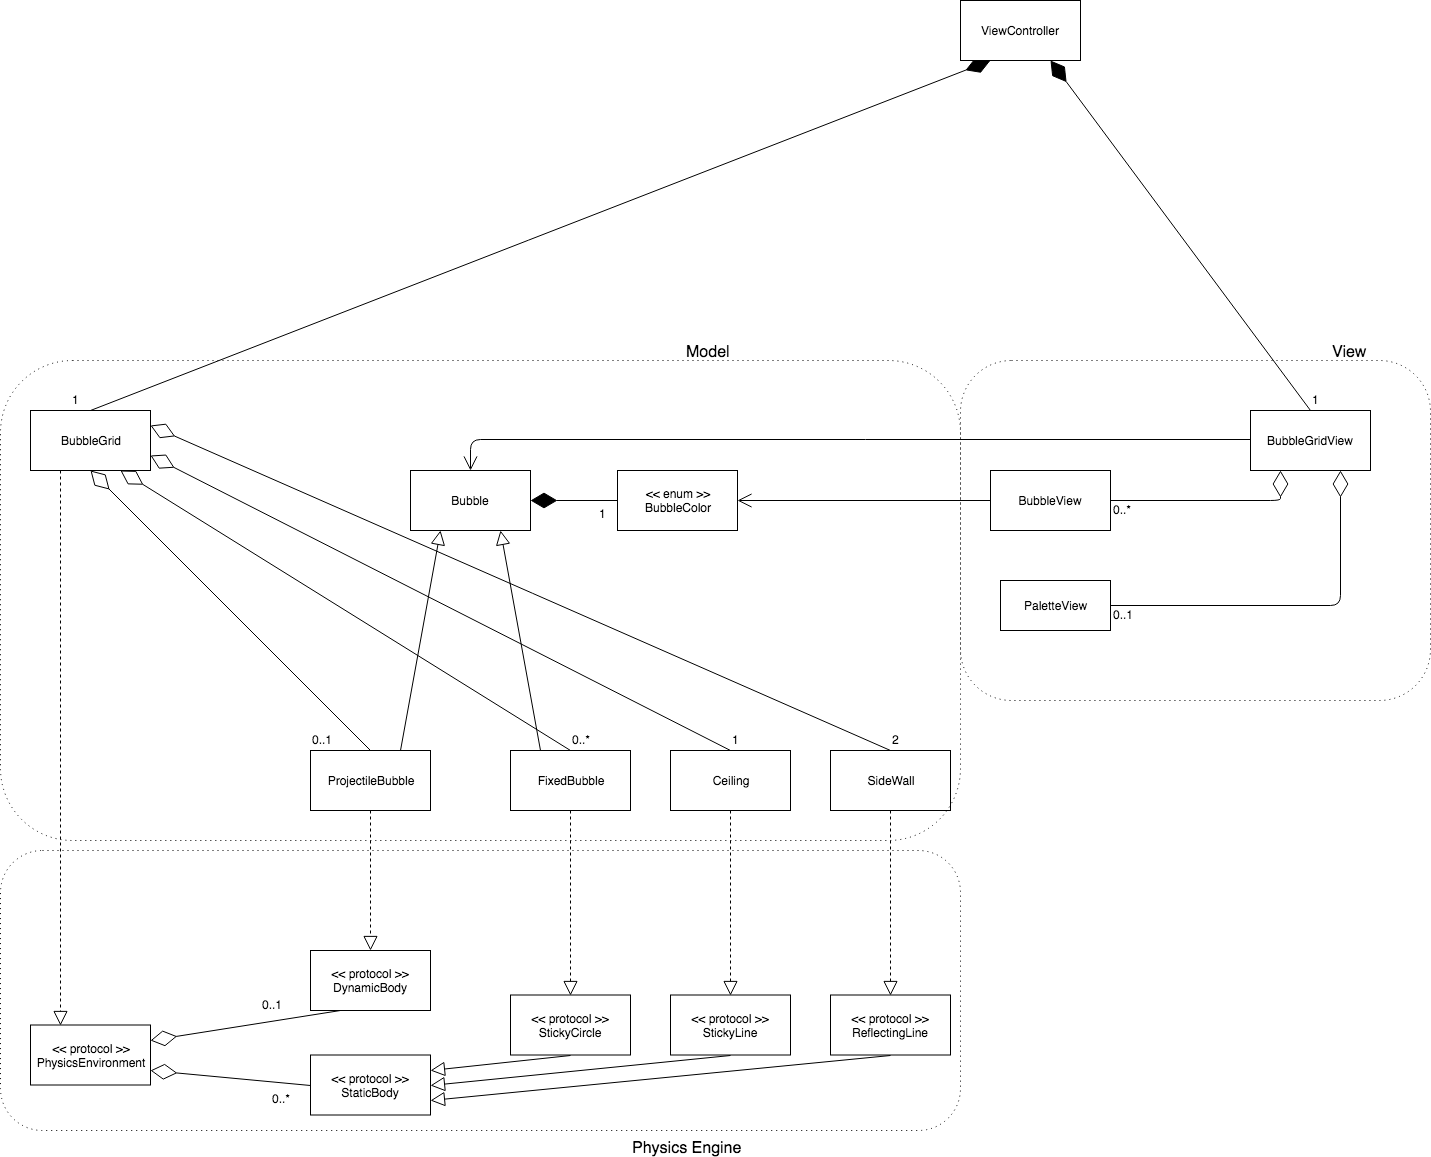
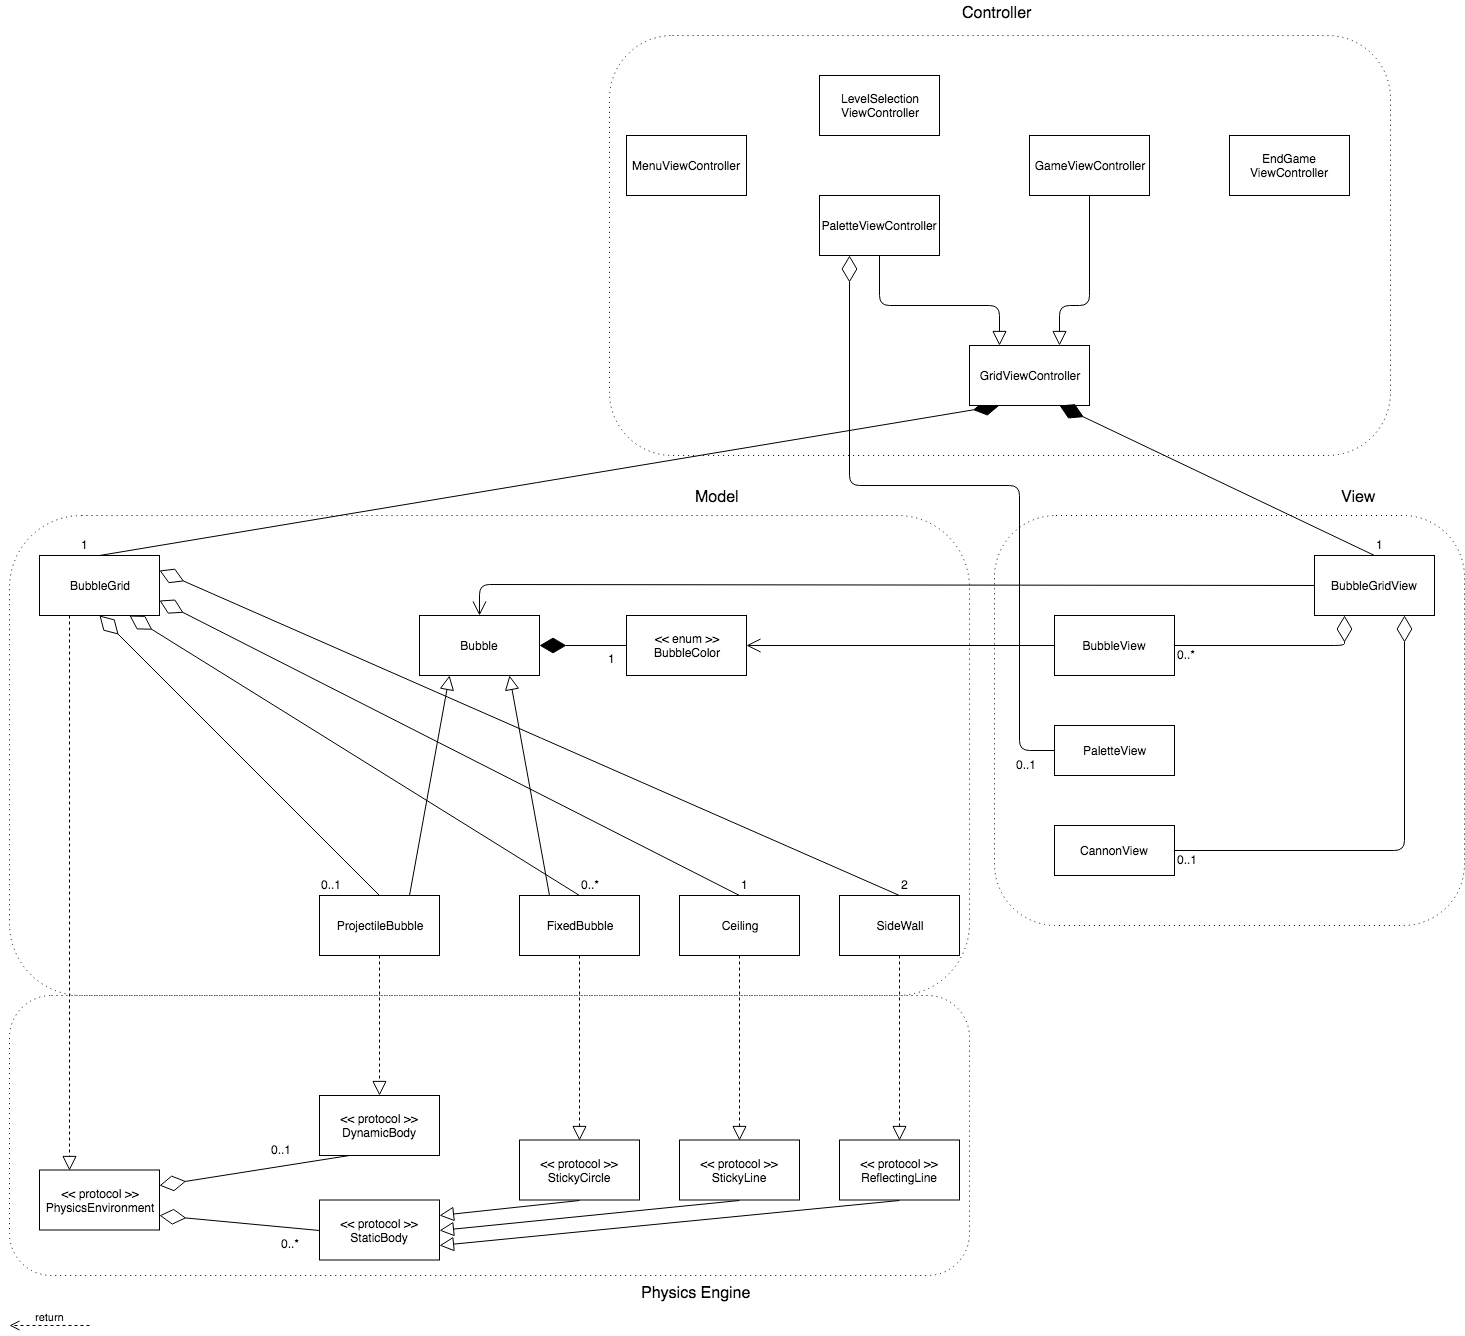
add class diagram and explanations

diff --git a/README.md b/README.md
@@ -70,7 +70,33 @@ An alternative approach could be maintaining a stack of triggered special bubble
 
 ### Problem 7: Class Diagram
 
-Please save your diagram as `class-diagram.png` in the root directory of the repository.
+![Class Diagram](class-diagram.png)
+
+#### Model
+
+`BubbleGrid` is the main class for the model, storing the bubbles in the grid as well as the projectile as attributes. It provides useful methods to help the controller make decisions e.g. which grid point is nearest to the current coordinate point, which bubbles of the same colour are in the same connected component as some given bubble, etc. It contains a coordinate system (needed for physics calculations) that is different from the one in the view, and whose aspect ratio is defined directly by the number of rows vs the number of bubbles in each row. The view and model coordinate systems differ only by a scaling factor, so transformation is easy.
+
+`PhysicsEnvironment`, `StaticBody` and `DynamicBody` are protocols which make up the physics engine. An instance of `PhysicsEnvironment` may contain any number of static bodies (which are stationary and are there to be collided with by the dynamic body) and at most one (for now) dynamic body (which can move). When its `simulate` method is called with a time delta from the display link, it can then simulate the motion of the dynamic body in the environment, including collisions with the static bodies. `DynamicBody` is implemented by `ProjectileBubble` in the model, which `StaticBody` is derived into a few specific protocols (`StickyCircle`, `StickyLine`, `ReflectingLine`) that are then implemented by the models representing collidable entities (`FixedBubble`, `Ceiling`, `SideWall`). `PhysicsEnvironment` itself is implemented by `BubbleGrid` as that is the class that contains all the physics objects in the model. `StaticBody` optionally can have a mass which is used to determine gravitational acceleration (this is used to implement magnetic bubbles in the game).
+
+#### View
+
+`BubbleGridView` contains methods to render the bubble grid and the projectile (which in the view is simply a `BubbleView`), as well as to render with animation if needed. `BubbleGridView` also contains helper methods for translating to and from model and view coordinates. The animated rendering itself is done in the `BubbleView` class (which represents an individual bubble).
+
+`PaletteView` renders the palette and is used for the level designer stage. In particular, it is used in `PaletteViewController`.
+
+#### Controller
+
+The controllers comprise the view controllers, each of which represents both a single screen and a single phase of the game.
+
+`MenuViewController`: Handles the first segment of the game, where the user decides whether to design a level or launch an existing level. If the player chooses to launch an existing level, it segues to `LevelSelectionViewController`, otherwise it segues to `PaletteViewController`.
+
+`LevelSelectionViewController`: Presents the user all saved levels in an encapsulated `UICollectionView`. When the user taps on a level, it segues to `GameViewController` to play the selected level. In addition to the saved levels created by the user, there are 3 prepackaged saved levels ("Cables", "Magnets", "Stripes") which are loaded from the assets bundle and presented together with the other saved levels.
+
+`PaletteViewController`: Handles the level design phase of the game. After the level is designed and "START" is pressed, it segues to `GameViewController` to begin the actual game.
+
+`GameViewController`: Handles the game itself. It contains methods to fire a projectile, remove bubble clusters once hit, trigger special bubbles and keep track of score. It checks for endgame conditions (empty grid or filled past a certain row) and segues to `EndGameViewController`.
+
+`EndGameViewController`: Shows the player whether they won or lost, along with their score. Allows user to choose to play again, at which point it segues back to `MenuViewController`.
 
 ### Problem 8: Testing
 
